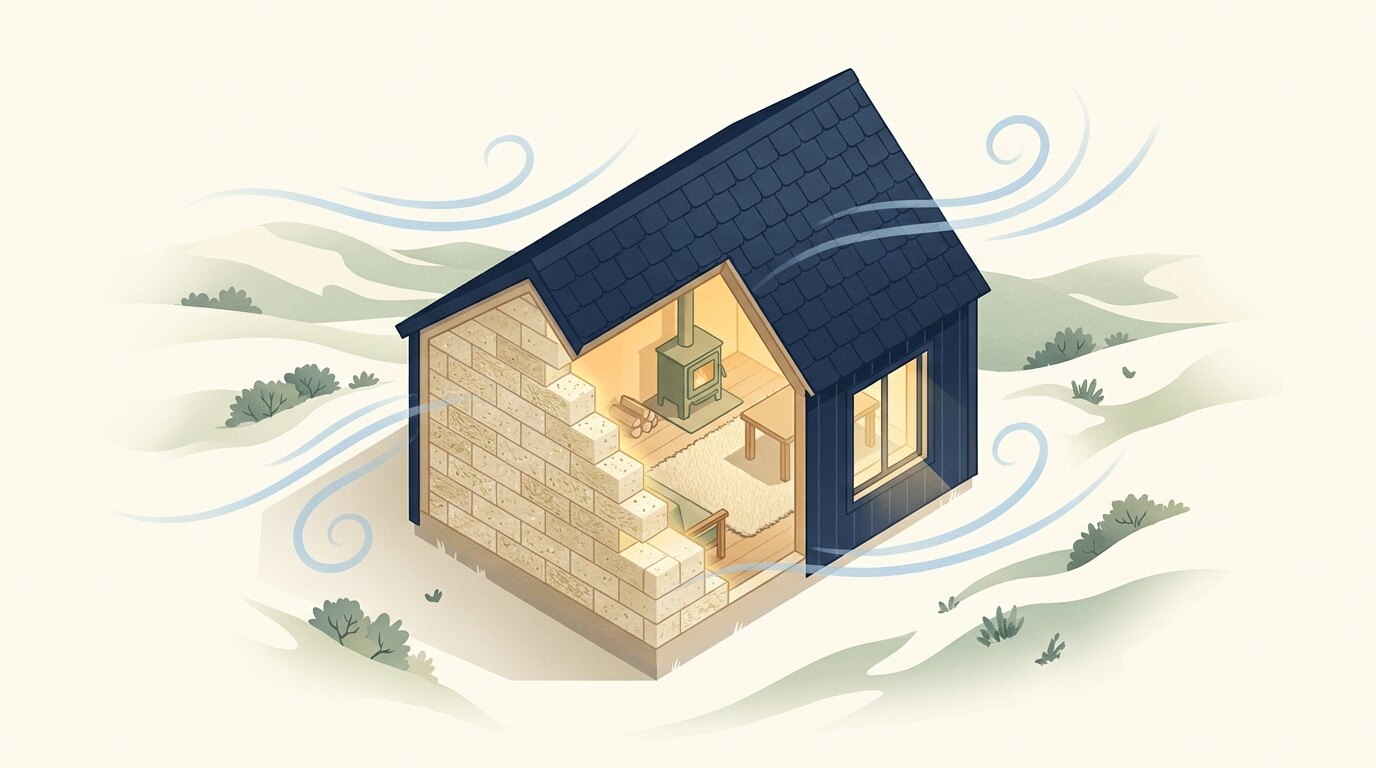
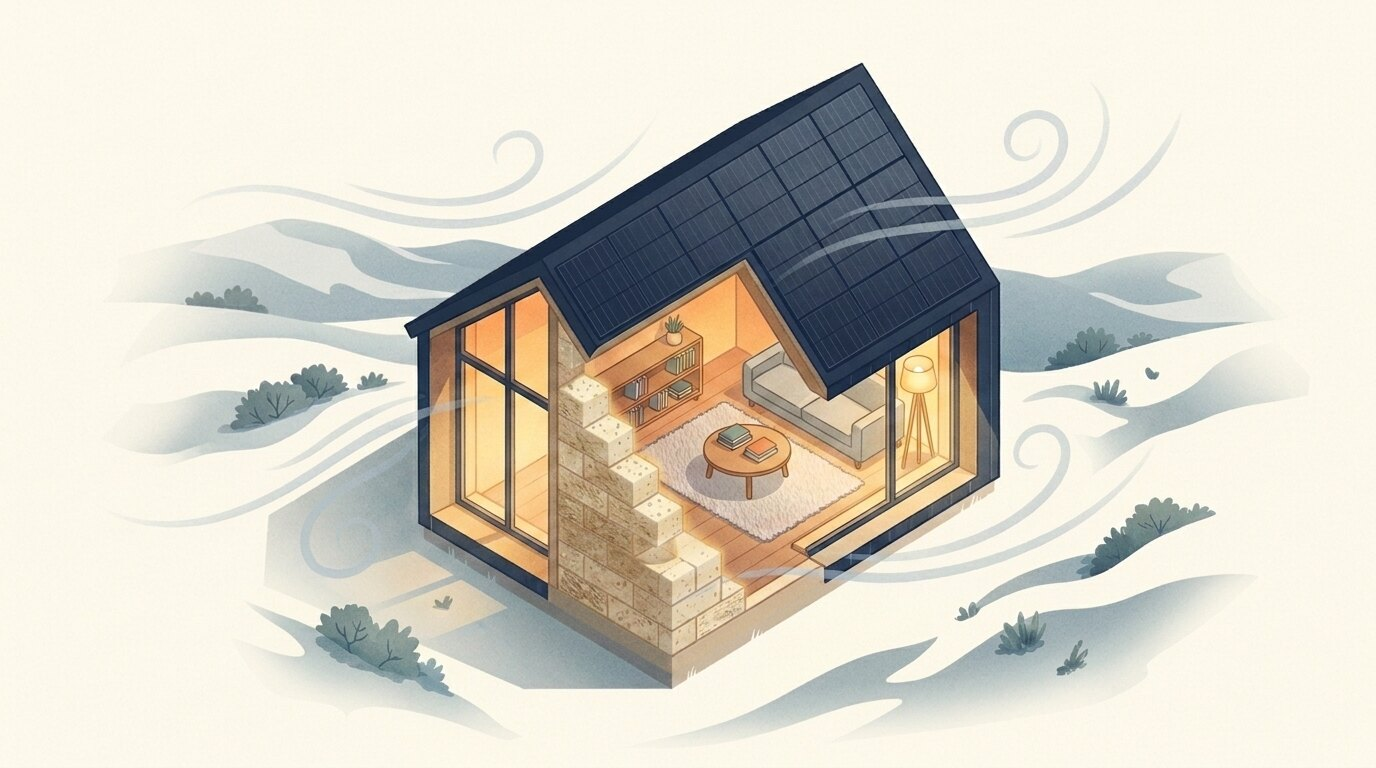
feat: casa definitiva (variante D) + el viaje del carbono reordenado
- La casa de referencia de estilo del proyecto (ping pong de 3
  rondas con Higgsfield): dos aguas moderna, paneles solares
  integrados, ventanales, interior contemporáneo sin estufa —
  arquitectura nueva casi sin calefacción. referencia-estilo.png
  guardada para futuras generaciones.
- El viaje del carbono pasa ADELANTE del hempcrete/biochar como
  mapa general de las dos vías, y cierra explicando el crédito
  en criollo (certificados que las empresas compran; acá se
  generan, con respaldo físico y trazables).

diff --git a/components/masterplan/MasterplanStageGate.tsx b/components/masterplan/MasterplanStageGate.tsx
@@ -134,6 +134,8 @@ const TXT = {
     v_ciclo_rama2: [['Al suelo', 'como biochar']] as readonly (readonly [string, string])[],
     v_ciclo_rama2_chip: '+1.000 años en el suelo',
     v_ciclo_caption: 'Dos destinos, un mismo resultado: el carbono sale del aire y no vuelve. Y el suelo mejorado produce la próxima cosecha.',
+    v_ciclo_credito:
+      'Ese viaje tiene un premio: cada tonelada guardada es un **crédito de carbono** — certificados que las empresas del mundo compran para compensar lo que contaminan. Esta cadena permite **generarlos acá**, con respaldo físico y trazables de la semilla al muro.',
     v_biochar_label: 'Biochar — la segunda línea',
     v_biochar_body:
       'Del residuo que no va al bloque —la fibra corta y el polvo— la pirólisis produce biochar: un carbón vegetal estable que mejora la retención de agua y nutrientes del suelo, y bloquea el carbono a escala milenaria. La misma hectárea produce dos activos: **el que construye y el que regenera**.',
@@ -411,6 +413,8 @@ const TXT = {
     v_ciclo_rama2: [['To the soil', 'as biochar']] as readonly (readonly [string, string])[],
     v_ciclo_rama2_chip: '1,000+ years in the soil',
     v_ciclo_caption: 'Two destinations, one result: the carbon leaves the air and does not come back. And the improved soil grows the next harvest.',
+    v_ciclo_credito:
+      'That journey has a prize: every stored tonne is a **carbon credit** — certificates that companies around the world buy to offset what they emit. This chain makes it possible to **generate them here**, physically backed and traceable from seed to wall.',
     v_biochar_label: 'Biochar — the second line',
     v_biochar_body:
       'From the residue that does not go into the block —the short fiber and dust— pyrolysis produces biochar: a stable charcoal that improves the soil\'s water and nutrient retention, and locks carbon on a millennial scale. The same hectare produces two assets: **the one that builds and the one that regenerates**.',
@@ -1157,7 +1161,16 @@ function Tesis({ t }: { t: T }) {
         ))}
       </div>
 
-      {/* hempcrete, contado simple */}
+      {/* el viaje del carbono — primero el mapa, después las dos vías */}
+      <VisionLabel>{t.v_ciclo_label}</VisionLabel>
+      <Reveal>
+        <CarbonCycle t={t} />
+      </Reveal>
+      <Reveal>
+        <P max="74ch" style={{ marginTop: '1.4rem' }}>{rich(t.v_ciclo_credito, INK)}</P>
+      </Reveal>
+
+      {/* vía 1: hempcrete, contado simple */}
       <VisionLabel>{t.v_hemp_label}</VisionLabel>
       <Reveal>
         <P max="74ch">{rich(t.v_hemp_body, INK)}</P>
@@ -1168,13 +1181,7 @@ function Tesis({ t }: { t: T }) {
         <CarbonSimple t={t} />
       </Reveal>
 
-      {/* el viaje del carbono */}
-      <VisionLabel>{t.v_ciclo_label}</VisionLabel>
-      <Reveal>
-        <CarbonCycle t={t} />
-      </Reveal>
-
-      {/* biochar, contado simple */}
+      {/* vía 2: biochar, contado simple */}
       <VisionLabel>{t.v_biochar_label}</VisionLabel>
       <Reveal>
         <P max="74ch">{rich(t.v_biochar_body, INK)}</P>